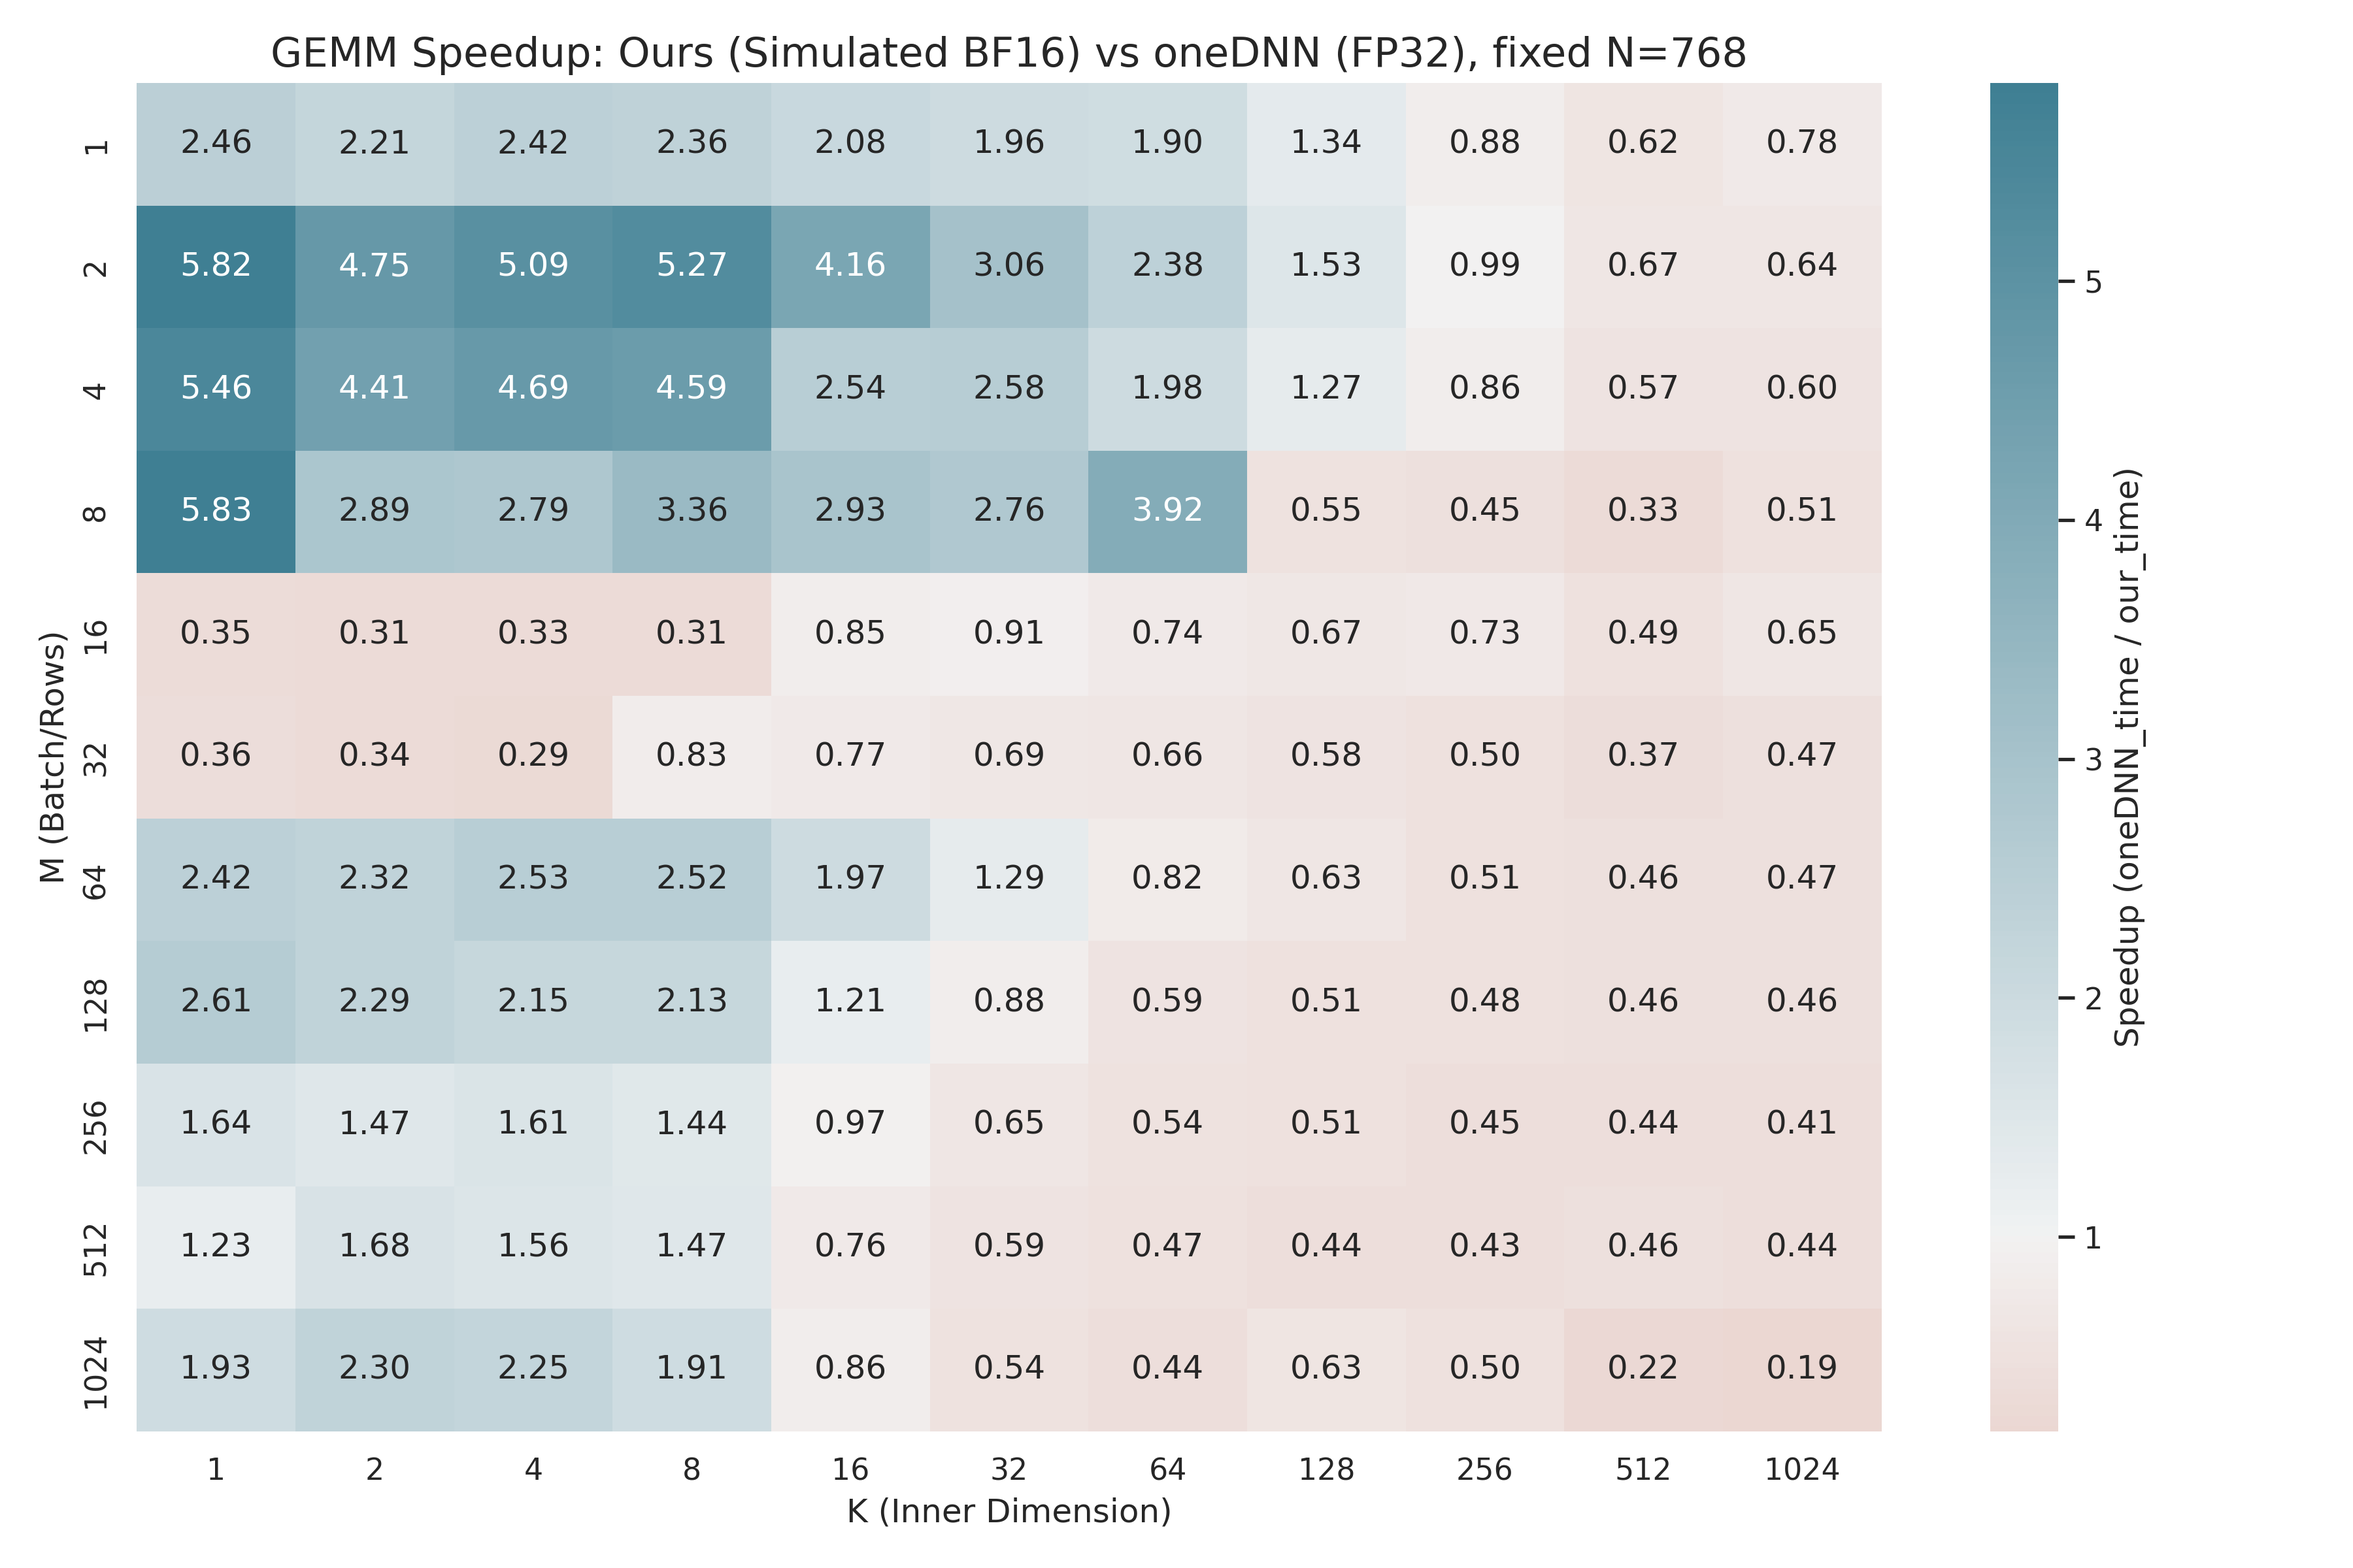
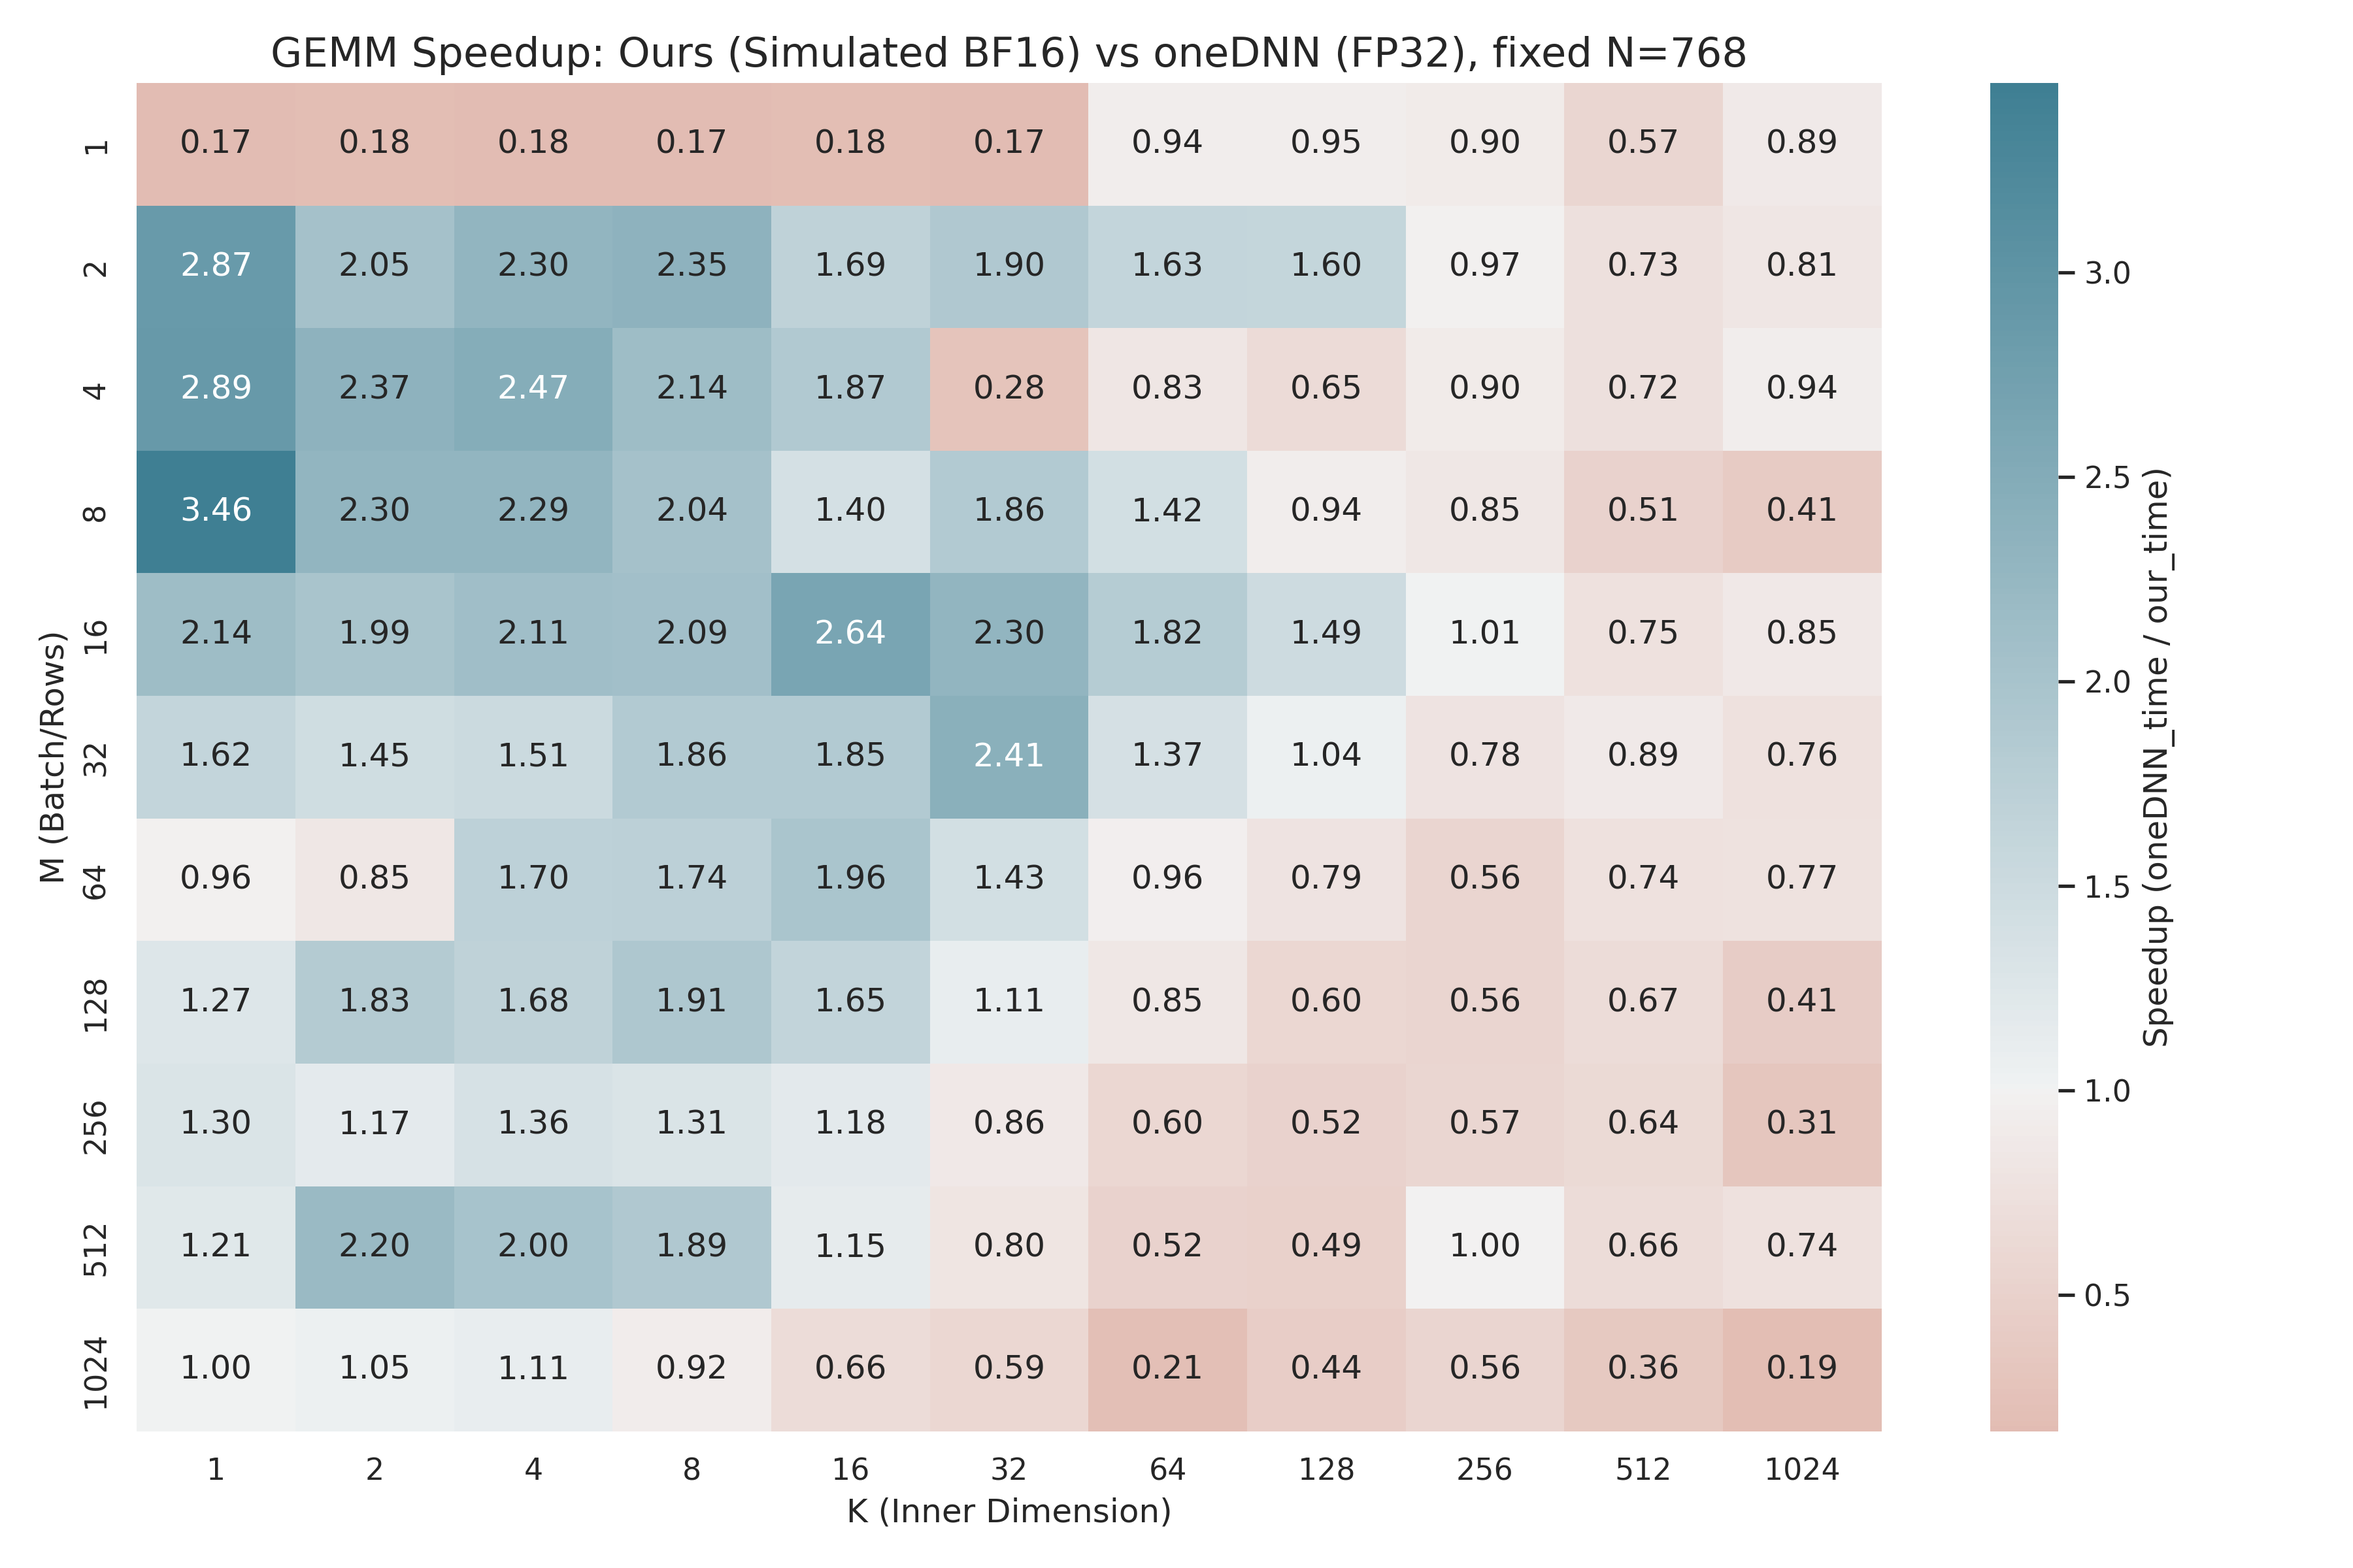
sync

diff --git a/include/gemm_bf16.hpp b/include/gemm_bf16.hpp
@@ -337,6 +337,69 @@ inline void packA_avx512_bf16(
     }
 }
 
+/* Pack A (Scalar Version)
+   
+   This creates the same layout as the AVX version but processes elements one by one.
+   Layout:
+   - Strips of height MR=16.
+   - Inside a strip, data is stored column-wise (column-major).
+   - A_packed[i_register * micropanel_stride + k * MR + i]
+*/
+inline void packA_scalar_bf16(
+    const bfloat16_t *__restrict__ A_tile,
+    bfloat16_t *__restrict__ A_packed,
+    int A_stride,
+    int micropanel_stride,
+    int m_end, int k_end, int k_pad
+) {
+    constexpr int MR = M_REGISTER_TILE_BF16; // 16
+    int i_register = 0;
+
+    // 1. Main loop: Process full blocks of MR rows
+    for (; (i_register + 1) * MR <= m_end; ++i_register) {
+        int row_offset = i_register * MR;
+        int panel_offset = i_register * micropanel_stride;
+
+        // Iterate over columns k
+        for (int k = 0; k < k_end; ++k) {
+            // For each column, copy MR rows contiguously (transposing from row-major source)
+            for (int i = 0; i < MR; ++i) {
+                // Src: A[row + i][k]
+                // Dst: Micropanel[k][i]
+                A_packed[panel_offset + k * MR + i] = A_tile[(row_offset + i) * A_stride + k];
+            }
+        }
+
+        // Zero padding for k (if k_pad > k_end)
+        for (int k = k_end; k < k_pad; ++k) {
+            for (int i = 0; i < MR; ++i) {
+                A_packed[panel_offset + k * MR + i] = 0;
+            }
+        }
+    }
+
+    // 2. Cleanup loop: Process remaining rows (m_remain < MR)
+    // The layout here packs only 'm_remain' elements per column, not MR.
+    int m_remain = m_end - i_register * MR;
+    if (m_remain > 0) {
+        int row_offset = i_register * MR;
+        int panel_offset = i_register * micropanel_stride;
+
+        for (int k = 0; k < k_end; ++k) {
+            for (int i = 0; i < m_remain; ++i) {
+                A_packed[panel_offset + k * m_remain + i] = A_tile[(row_offset + i) * A_stride + k];
+            }
+        }
+
+        // Zero padding for k
+        for (int k = k_end; k < k_pad; ++k) {
+            for (int i = 0; i < m_remain; ++i) {
+                A_packed[panel_offset + k * m_remain + i] = 0;
+            }
+        }
+    }
+}
+
 /* Pack B (AVX-512)
     Uses 256-bit load/store instructions to move 16 bf16s (32 bytes) at once.
 */
@@ -436,7 +499,7 @@ inline void gemm_bf16_avx512_tiled_parallel_N(
                 for (int i_cache = 0; i_cache < i_cache_end; ++i_cache) {
                     int m_end = std::min(MC, M - i_cache * MC);
 
-                    packA_avx512_bf16(
+                    packA_scalar_bf16(
                         &A[(i_cache * MC) * K + (k_cache * KC)], A_packed, 
                         K, micropanel_stride_A, m_end, k_end, k_pad
                     );
@@ -524,7 +587,7 @@ inline void gemm_bf16_avx512_tiled_parallel_M(
                 for (int i_cache = 0; i_cache < i_cache_end; ++i_cache) {
                     int m_end = std::min(MC, M - i_cache * MC);
 
-                    packA_avx512_bf16(
+                    packA_scalar_bf16(
                         &A[(i_cache * MC) * K + (k_cache * KC)], A_packed, 
                         K, micropanel_stride_A, m_end, k_end, k_pad
                     );

diff --git a/src/main_sweepMK_bf16.cpp b/src/main_sweepMK_bf16.cpp
@@ -81,7 +81,9 @@ int main() {
     // Checksum to prevent dead code optimization
     float checksum = 0;
 
-    // Run the benchmarks once for warmup
+    // Run the benchmarks some times for warmup
+    warmup_benchmarks(512, 512, N);
+    warmup_benchmarks(512, 512, N);
     warmup_benchmarks(512, 512, N);
 
     // Outer loop for M (powers of 2)
